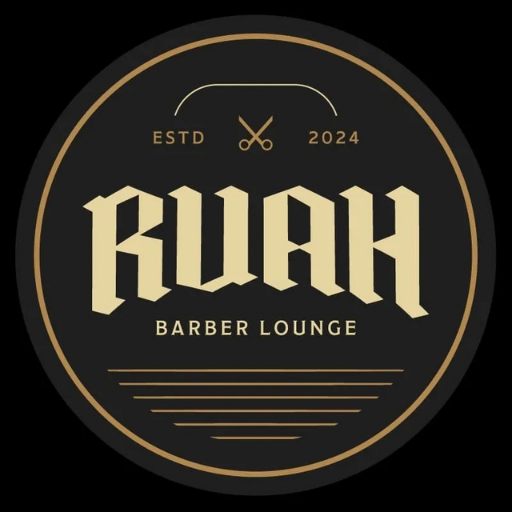
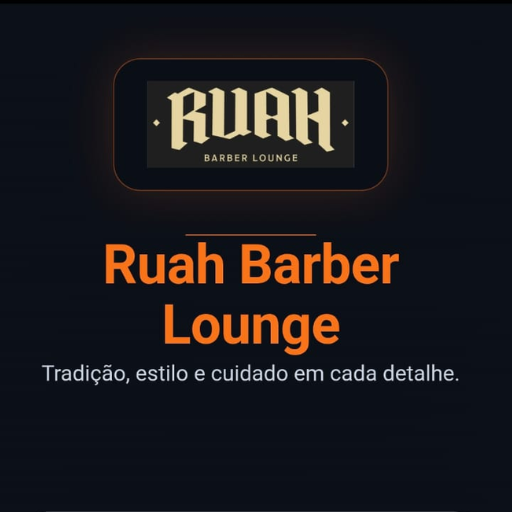
pwa

diff --git a/vite.config.ts b/vite.config.ts
@@ -22,9 +22,9 @@ export default defineConfig({
       registerType: "autoUpdate",
       includeAssets: ["favicon.ico", "pwa-192x192.png", "pwa-512x512.png"],
       manifest: {
-        name: "FlowStudio AI",
-        short_name: "FlowStudio",
-        description: "Plataforma white-label para studios de beleza",
+        name: "Ruah Barber Lounge",
+        short_name: "Ruah",
+        description: "Tradição, estilo e cuidado em cada detalhe",
         theme_color: "#f97316",
         background_color: "#0a0a0a",
         display: "standalone",